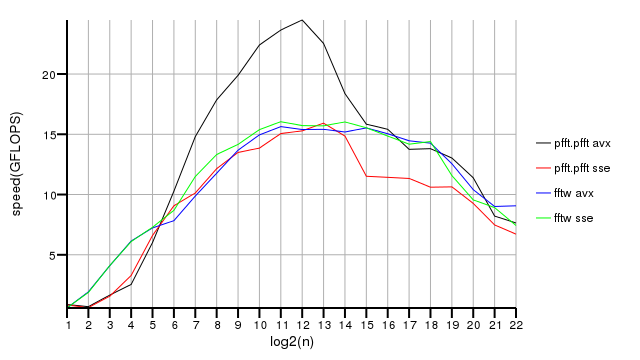
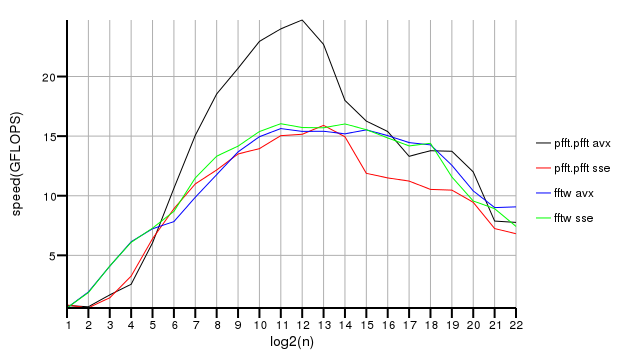
Updated the benchmarks

diff --git a/benchmarks/index.html b/benchmarks/index.html
@@ -25,7 +25,7 @@ compiled with GCC 4.8.0 20120715. All the benchmarks were done
 using the test/test.d file and were run on an Intel Core i5 2500K CPU. The 
 operating system was Debian Wheezy.</p>
 
-<p>The benchmarks on this page are for the <a href="https://github.com/jerro/pfft/tree/82792532185127ad3f2d131fbb6fe37e2cdda5d7">82792532</a> revision of pfft. For 0.1 release benchmarks go <a href="../benchmarks-0.1">here</a>.</p>
+<p>The benchmarks on this page are for the <a href="https://github.com/jerro/pfft/tree/ebfc8b8a08a8d36b919b255809b1ec80e7062016">ebfc8b8a</a> revision of pfft. For 0.1 release benchmarks go <a href="../benchmarks-0.1">here</a>.</p>
 
 <h3>Comparison with FFTW</h3>
 

diff --git a/benchmarks/src/index.md b/benchmarks/src/index.md
@@ -20,7 +20,7 @@ compiled with GCC 4.8.0 20120715. All the benchmarks were done
 using the test/test.d file and were run on an Intel Core i5 2500K CPU. The 
 operating system was Debian Wheezy.
 
-The benchmarks on this page are for the [82792532](https://github.com/jerro/pfft/tree/82792532185127ad3f2d131fbb6fe37e2cdda5d7) revision of pfft. For 0.1 release benchmarks go [here](../benchmarks-0.1).
+The benchmarks on this page are for the [ebfc8b8a](https://github.com/jerro/pfft/tree/ebfc8b8a08a8d36b919b255809b1ec80e7062016) revision of pfft. For 0.1 release benchmarks go [here](../benchmarks-0.1).
 
 ### Comparison with FFTW
 
